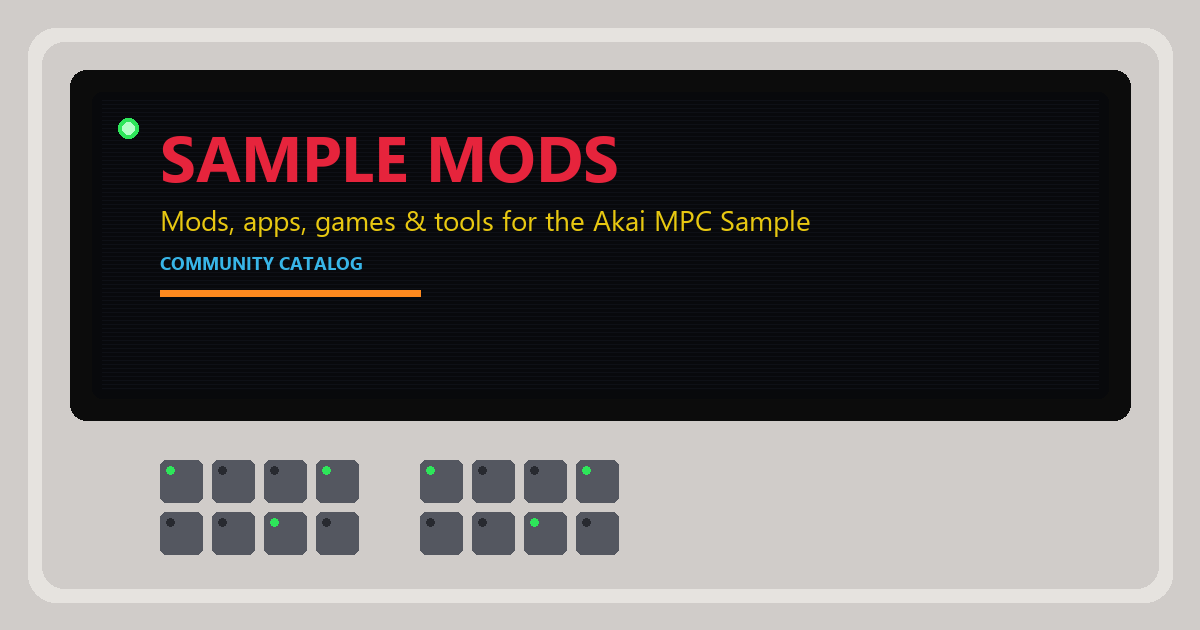
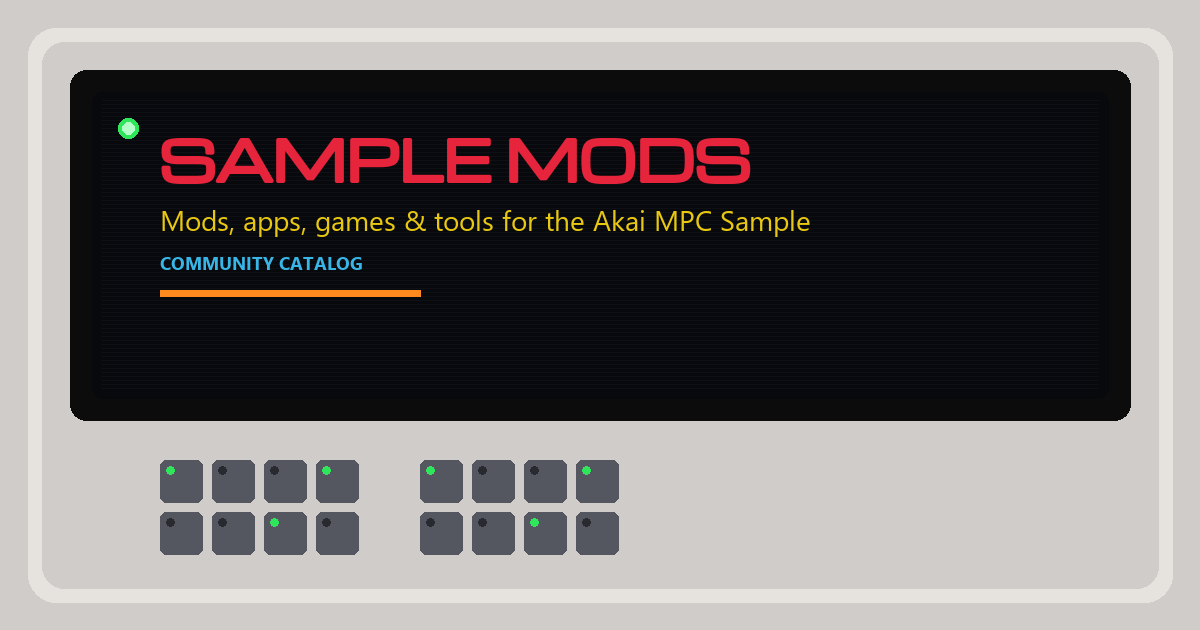
fix: render og-default wordmark in Michroma
Match the header Sample Mods face, tracking, and red stroke on the share image.

Changed region(s): [[0.1233, 0.2111, 0.6475, 0.3016]]

diff --git a/scripts/generate-og-default.py b/scripts/generate-og-default.py
@@ -25,7 +25,17 @@ PAD_LIT = (255, 138, 30)
 LED = (46, 230, 90)
 
 
-def font(size: int, bold: bool = False) -> ImageFont.FreeTypeFont | ImageFont.ImageFont:
+def font(size: int, *, wordmark: bool = False, bold: bool = False) -> ImageFont.FreeTypeFont | ImageFont.ImageFont:
+    # Prefer the same Michroma face the site ships (@fontsource/michroma).
+    if wordmark:
+        michroma = [
+            ROOT / "node_modules/@fontsource/michroma/files/michroma-latin-400-normal.woff2",
+            ROOT / "node_modules/@fontsource/michroma/files/michroma-latin-400-normal.woff",
+        ]
+        for path in michroma:
+            if path.exists():
+                return ImageFont.truetype(str(path), size)
+
     candidates = [
         r"C:\Windows\Fonts\segoeuib.ttf" if bold else r"C:\Windows\Fonts\segoeui.ttf",
         r"C:\Windows\Fonts\arialbd.ttf" if bold else r"C:\Windows\Fonts\arial.ttf",
@@ -72,11 +82,19 @@ def main() -> None:
     draw.ellipse((118, 118, 138, 138), fill=LED)
     draw.ellipse((122, 122, 134, 134), fill=(180, 255, 200))
 
-    word_font = font(64, bold=True)
+    # Match .wordmark: Michroma, red fill, ~1.1px stroke (paint-order stroke fill).
+    word_font = font(54, wordmark=True)
     tag_font = font(28, bold=False)
     kick_font = font(18, bold=True)
 
-    draw.text((160, 112), "SAMPLE MODS", font=word_font, fill=WORDMARK)
+    draw.text(
+        (160, 118),
+        "SAMPLE MODS",
+        font=word_font,
+        fill=WORDMARK,
+        stroke_width=2,
+        stroke_fill=WORDMARK,
+    )
     draw.text((160, 200), "Mods, apps, games & tools for the Akai MPC Sample", font=tag_font, fill=YELLOW)
     draw.text((160, 250), "COMMUNITY CATALOG", font=kick_font, fill=CYAN)
 
